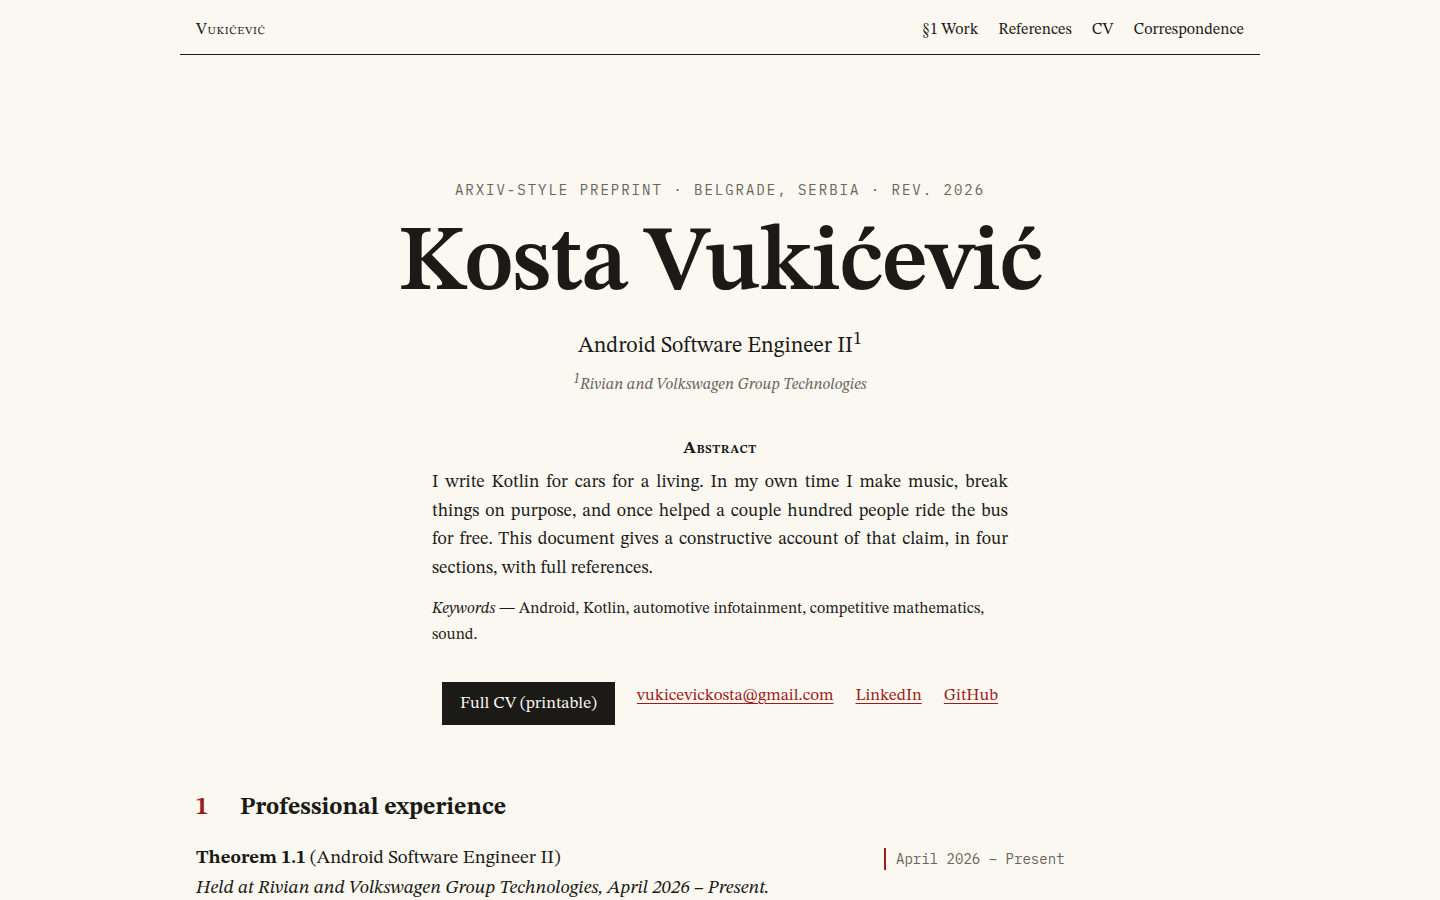
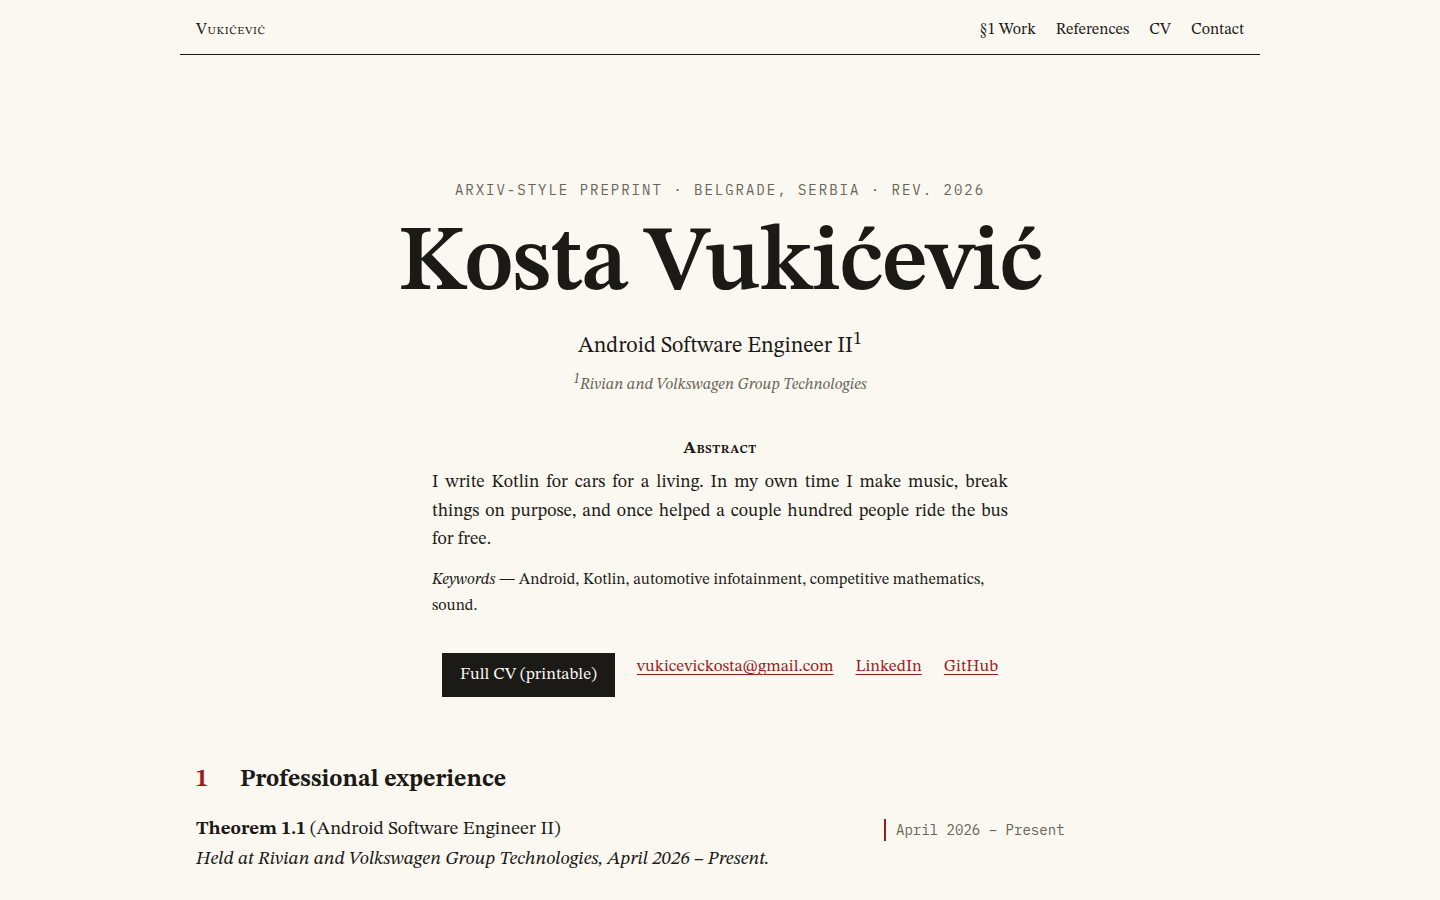
Apply independent review fixes to concepts; move them onto Profile layout
Concepts now use src/layouts/Profile.astro and src/data/profile.ts and
link to their matching CV prototype. Accessibility, robustness and
content fixes per review; verification notes in CONCEPTS.md.

Claude-Session: https://claude.ai/code/session_01UnkRgrju9rvzLsoZx22j2w

diff --git a/src/data/profile.ts b/src/data/profile.ts
@@ -24,7 +24,7 @@ export async function loadProfile() {
   const by = (s: string) => cv.filter((e) => e.data.section === s).sort((a, b) => a.data.order - b.data.order);
 
   const experience = await Promise.all(
-    by("experience").map(async (e) => ({ ...e.data, Body: e.body?.trim() ? (await render(e)).Content : null })),
+    by("experience").map(async (e) => ({ ...e.data, Body: e.body?.trim() ? (await render(e)).Content : null, long: (e.body?.length ?? 0) > 400 })),
   );
 
   let projects: { slug: string; title: string; tagline: string; status: string; stack: string[]; repo: string }[] = [];
@@ -33,7 +33,8 @@ export async function loadProfile() {
       .map((p) => p.data)
       .filter((p) => p.featured)
       .sort((a, b) => a.order - b.order);
-  } catch {
+  } catch (err) {
+    console.warn("[profile] projects collection unavailable, omitting selected work:", err);
     // Federation unavailable: the concepts simply omit the projects block.
   }
 

diff --git a/docs/agent-handoff/CONCEPTS.md b/docs/agent-handoff/CONCEPTS.md
@@ -1,6 +1,6 @@
 # Root homepage — three concepts for owner decision (2026-11-19)
 
-All three render the same data (`src/pages/proto/_content.ts`: CV collection + featured federated projects, optional) in the decided composition: editorial first screen, then a structured profile. None uses `Base.astro`, so there's no visualizer, no player and no old CSS. Run them with `npm run dev` and open `/proto/a`, `/proto/b`, `/proto/c`. Screenshots are in `proto-shots/` (`<concept>-<desktop|mobile>-<fold|full>.png`).
+All three render the same data (`src/data/profile.ts`: CV collection + featured federated projects, optional) through the new clean `src/layouts/Profile.astro`, in the decided composition: editorial first screen, then a structured profile. None uses `Base.astro`, so there's no visualizer, no player and no old CSS. Run them with `npm run dev` and open `/proto/a`, `/proto/b`, `/proto/c`. Each has a matching CV prototype at `/proto/a-cv`, `/proto/b-cv`, `/proto/c-cv`, and every homepage CV link points to it. Screenshots are in `proto-shots/` (`<concept>-<desktop|mobile>-<fold|full>.png`, `<concept>-cv-*.png`), and A4 print exports are in `<concept>-cv.pdf`.
 
 | | **A — Route** | **B — Paper** | **C — Datasheet** |
 |---|---|---|---|
@@ -15,12 +15,16 @@ All three render the same data (`src/pages/proto/_content.ts`: CV collection + f
 
 **Recommendation (for you to decide, not decided):** go with **C**, borrowing B's results-table typography for the maths section. C answers the brief's six recruiter questions fastest and still has the strongest single visual idea. A is the safe fallback.
 
-## Verification
+## Verification (2026-11-20, production build via `astro preview`)
 
-- `npm run build`: passes (16 pages incl. `/proto/{a,b,c}`).
-- Headless Chrome (Playwright, `/usr/bin/google-chrome`) at 1440×900 and 390×844: no horizontal overflow, no console errors, every local link returns 200.
-- **Not done:** manual keyboard walkthrough (each page has a skip link and `:focus-visible` styles, but nobody has tabbed through them yet), print/PDF (CV route not touched in this milestone), and an independent review agent.
-
-## Content caveats carried into all three
-
-Used as-is by owner instruction; open items in `CONTENT_AUDIT.md`. The intro is the current homepage lede, verbatim. Concept C's feature bullets are condensed from the CV entries (no new claims).
+- `npm run build` passes. Legacy routes (`/`, `/cv`, `/projects/*`, `/music`, `/devlog`) are unchanged and still build.
+- Headless Chrome at 1440×900 and 390×844, all 6 prototype pages: no horizontal page overflow, no console errors, every local link returns 200. Also checked at 320/768/960/1024/1200px with no page overflow; A's route strip scrolls inside its own container by design.
+- Keyboard: tabbed through all 6 pages with reduced motion on. Each page has a skip link as the first stop, a logical order, and a visible focus outline on every stop.
+- Print: all three CVs export to 2 A4 pages with no orphaned headings or split tables, and no nav/buttons/shadows. A 1-page fit would need cuts to the intern write-up, which is your call.
+- Independent review (separate agent, read-only). Fixed:
+  - C: details summaries now name the role for screen readers; the mobile table header is visually hidden instead of removed; education rows sit under their own "Education" separator; the part-number box comes after the name on mobile; empty-data guards added.
+  - B: "Definition 2.x" now numbered; removed a sentence I had added to your abstract; reworked the proof/∎ layout; nav "Correspondence" renamed "Contact".
+  - A: green status badge contrast raised to AA; long role write-ups collapse behind "More about this role"; education station uses the real organisation; mobile route strip gets a fade and swipe hint; decorative glyph hidden from screen readers.
+  - Data: a federation failure is now logged instead of swallowed silently.
+- Review's claim that B's fonts lacked `display=swap` was wrong (it's there), so no change.
+- Review notes left for production, not fixed in prototypes: A's projects section is still a card grid (the brief rejects that as a *main* idea; here it isn't the main idea, but it's worth rethinking), C's joke labels ("Ordering information", "In production") need your OK, and C's block diagram text gets small below ~360px.

diff --git a/docs/agent-handoff/STATE.md b/docs/agent-handoff/STATE.md
@@ -44,13 +44,15 @@
 | Agent operating model and overseer skill | Complete | This package |
 | Repository baseline audit | Complete 2026-11-19 | See "Current status" |
 | CV/content factual audit | Draft complete; owner: use as is for now | `CONTENT_AUDIT.md` |
-| Three rendered root concepts | Complete | `CONCEPTS.md`, `src/pages/proto/`, `proto-shots/` |
+| Three rendered root concepts | Complete + reviewed + fixed | `CONCEPTS.md`, `src/pages/proto/`, `proto-shots/` |
+| Clean layout + shared profile data | Complete (used by prototypes) | `src/layouts/Profile.astro`, `src/data/profile.ts` |
+| CV prototypes per concept + print check | Complete | `/proto/{a,b,c}-cv`, `proto-shots/*-cv.pdf` |
 | Owner visual decision | Not started | — |
 | Root + CV implementation | Not started | — |
 
 ## Active tasks / agents
 
-None yet.
+None. (One read-only review agent ran 2026-11-20 and finished; its findings are summarised in CONCEPTS.md.)
 
 For each active task record:
 - agent/session:
@@ -69,10 +71,11 @@ For each active task record:
 
 ## Last session checkpoint
 
+- 2026-11-20 (overnight): Profile layout + data module, CV prototypes, independent review + fixes, keyboard/print/overflow checks. Branch `proto/root-concepts`, local only, not pushed.
 - 2026-11-19: kit placed in `docs/agent-handoff/`; baseline verified; `CONTENT_AUDIT.md` written. Prototype routes added under `src/pages/proto/` only; no existing page touched.
 - Skill not installed: name `overseer` collides with the user's global Hysteresis `overseer` skill.
 
 ## Next exact action
 
 1. Owner picks A / B / C (or a combination) from `CONCEPTS.md`.
-2. Then milestone 2: new clean layout (no Base.astro), promote the chosen concept to `/`, restyle `/cv` to match + print check, delete `src/pages/proto/`. Before that, do a keyboard walkthrough and get an independent review.
+2. Then milestone 2: promote the chosen concept + its CV onto `/` and `/cv` using the existing `Profile.astro` + `src/data/profile.ts`, keep the legacy pages reachable until replacements are approved, then delete `src/pages/proto/`. Keyboard/print/review checks are already done for the prototypes; redo them on the promoted pages.
